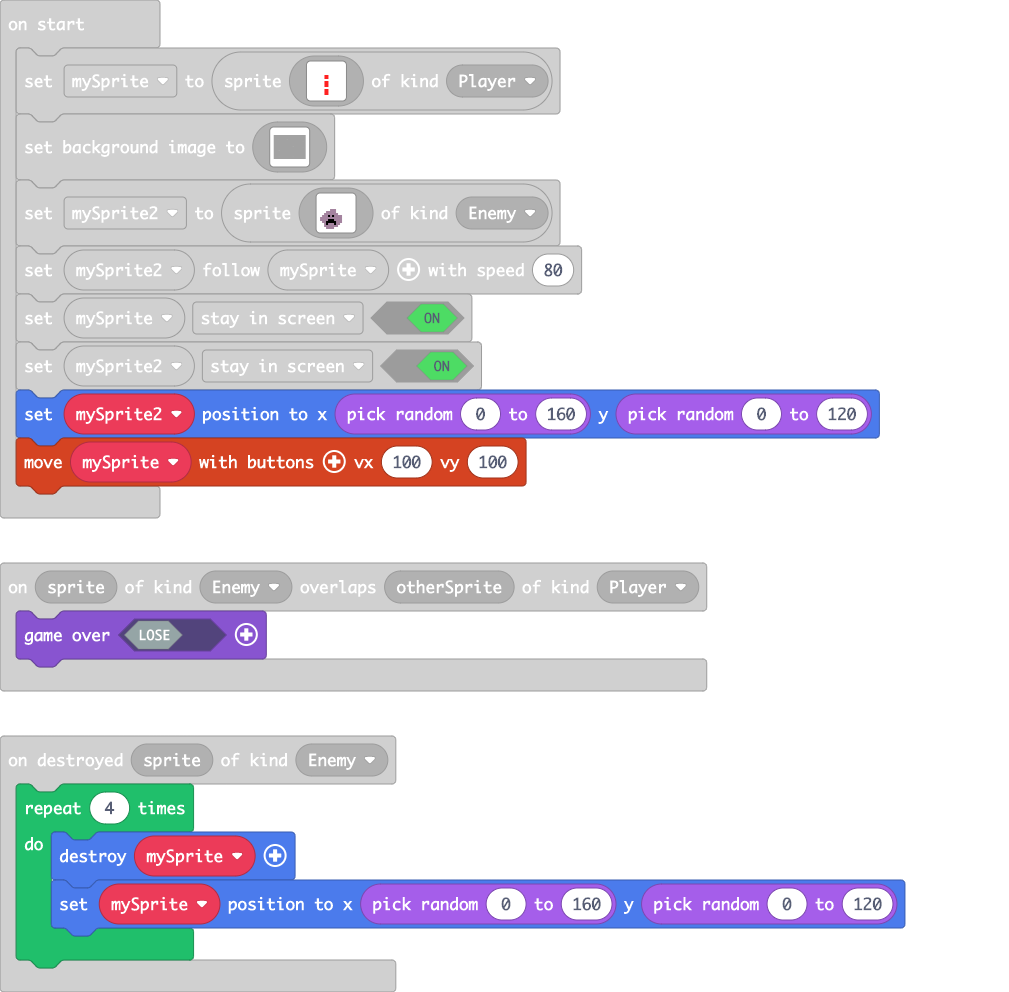
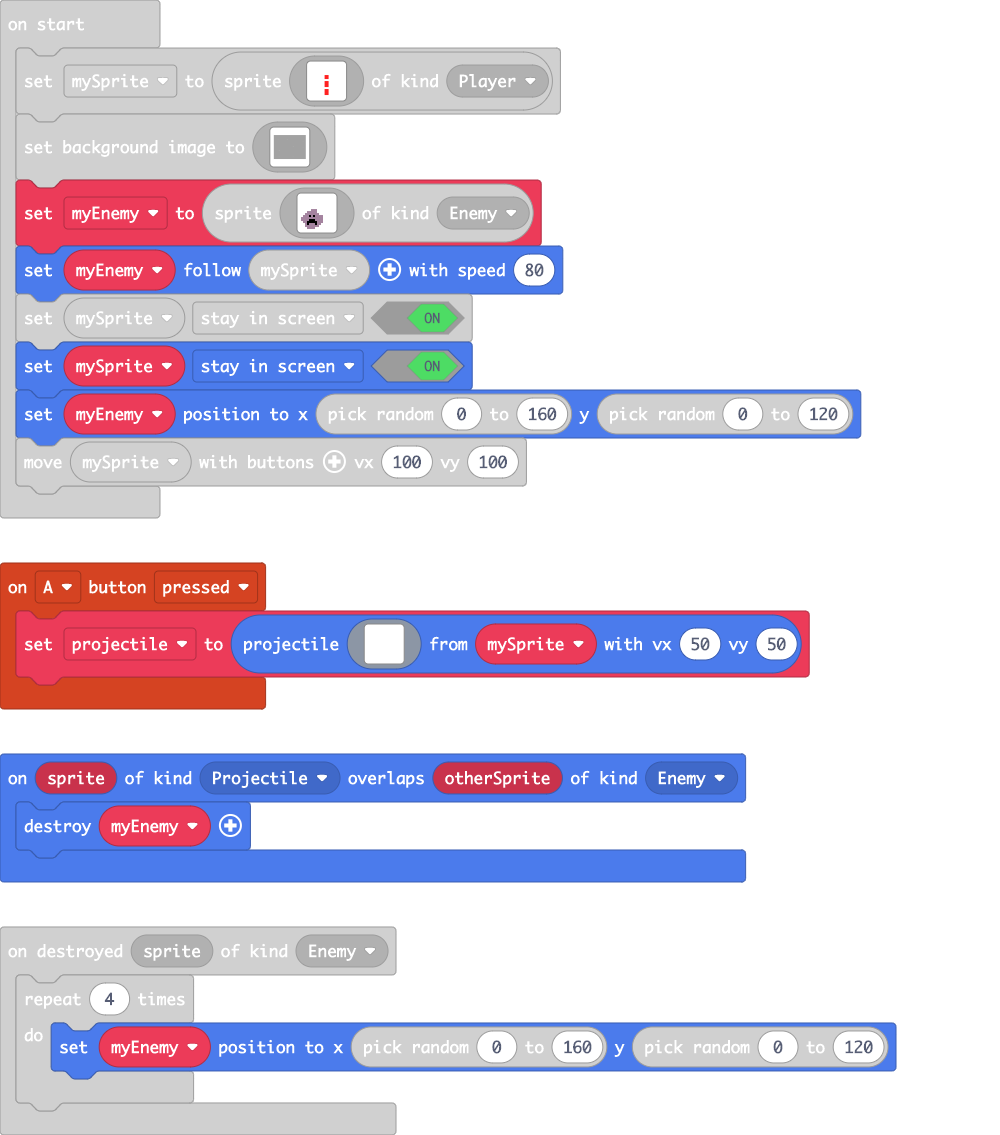
Update main.blocks, main.ts

diff --git a/main.ts b/main.ts
@@ -1,12 +1,36 @@
+controller.A.onEvent(ControllerButtonEvent.Pressed, function () {
+    projectile = sprites.createProjectileFromSprite(img`
+        . . . . . . . . . . . . . . . . 
+        . . . . . . . . . . . . . . . . 
+        . . . . . . . . . . . . . . . . 
+        . . . . . . . . . . . . . . . . 
+        . . . . . . . . . . . . . . . . 
+        . . . . . . . . . . . . . . . . 
+        . . . . . . . . . . . . . . . . 
+        . . . . . . . . . . . . . . . . 
+        . . . . . . . . . . . . . . . . 
+        . . . . . . . . . . . . . . . . 
+        . . . 1 . . . . . . . . 1 . . . 
+        . . . 1 . . . . . . . . 1 . . . 
+        . . . . . . . . . . . . . . . . 
+        . . . . . . . . . . . . . . . . 
+        . . . . . . . . . . . . . . . . 
+        . . . . . . . . . . . . . . . . 
+        `, mySprite, 50, 50)
+})
 sprites.onOverlap(SpriteKind.Enemy, SpriteKind.Player, function (sprite, otherSprite) {
     game.over(false)
 })
 sprites.onDestroyed(SpriteKind.Enemy, function (sprite) {
     for (let index = 0; index < 4; index++) {
-        mySprite.destroy()
-        mySprite.setPosition(randint(0, 160), randint(0, 120))
+        myEnemy.setPosition(randint(0, 160), randint(0, 120))
     }
 })
+sprites.onOverlap(SpriteKind.Projectile, SpriteKind.Enemy, function (sprite, otherSprite) {
+    myEnemy.destroy()
+})
+let projectile: Sprite = null
+let myEnemy: Sprite = null
 let mySprite: Sprite = null
 mySprite = sprites.create(img`
     . . . . . . . . . . . . . . . . 
@@ -148,7 +172,7 @@ scene.setBackgroundImage(img`
     ffffffffffffffffffffffffffffffffffffffffffffffffffffffffffffffffffffffffffffffffffffffffffffffffffffffffffffffffffffffffffffffffffffffffffffffffffffffffffffffff
     ffffffffffffffffffffffffffffffffffffffffffffffffffffffffffffffffffffffffffffffffffffffffffffffffffffffffffffffffffffffffffffffffffffffffffffffffffffffffffffffff
     `)
-let mySprite2 = sprites.create(img`
+myEnemy = sprites.create(img`
     . . . . . . . . . . . . . . . . 
     . . . . . . . . . . . . . . . . 
     . . . . . . . . . . . . . . . . 
@@ -166,8 +190,8 @@ let mySprite2 = sprites.create(img`
     . . b b b b b b b . . . . . . . 
     . . . b b b b . . . . . . . . . 
     `, SpriteKind.Enemy)
-mySprite2.follow(mySprite, 80)
+myEnemy.follow(mySprite, 80)
 mySprite.setFlag(SpriteFlag.StayInScreen, true)
-mySprite2.setFlag(SpriteFlag.StayInScreen, true)
-mySprite2.setPosition(randint(0, 160), randint(0, 120))
+mySprite.setFlag(SpriteFlag.StayInScreen, true)
+myEnemy.setPosition(randint(0, 160), randint(0, 120))
 controller.moveSprite(mySprite)
